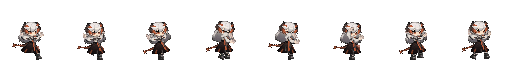
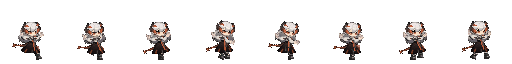
塞雷娅 S3 拳击改冲拳：前手直线打出、后手收腰、胸口前倾（用户 10-24）

diff --git a/tools/op_1x/native_extra.py b/tools/op_1x/native_extra.py
@@ -37,26 +37,21 @@ def hoshiguma():
     return ["op_hoshiguma_s1_guard_move"]
 
 
-# 塞雷娅 S3 空手拳击（10-24 用户「技能期间改成跑动拳击」→「看不太出来双手，能不能手往前伸」）：原生 Skill_Loop t=0 的空手站姿上
-# 逐帧转双臂（左臂在前；右臂在身后，转约 -140° 才到身前）。手臂大半被白毛领挡住，出拳几帧把双臂提到毛领上层画（top），
-# 不拉长也不放大（10-24 用户：放大显得奇怪；拉长 / 放大两列保留为 1.0 方便以后试）。
+# 塞雷娅 S3 空手冲拳（10-24 用户「技能期间改成跑动拳击」…「拳击就改成冲拳」）：原生 Skill_Loop t=0 的空手站姿上逐帧转手臂。
+# 前手（左臂，面朝右时在前）直线打出、后手（右臂）收到腰侧，胸口顺势前倾；手臂大半被白毛领挡住，打出的几帧把前臂提到毛领上层画（top）。
+# 不拉长、不放大（用户：放大显得奇怪）；蓄力只收到腰前，不抬过胸（用户：举过头奇怪）。
 # 帧数 / 出手帧与普攻条相同（8 帧，第 4 帧出手），时序由 json 抄普攻的 attack_timing。
-# 每帧：(左上臂, 左前臂, 右上臂, 胸, 手臂拉长, 拳头放大, 提到上层) ；角度为转角增量（度）
-PUNCH = [(0, 0, 0, 0, 1.0, 1.0, False), (8, 20, 10, 3, 1.0, 1.0, False), (12, 30, 18, 4, 1.0, 1.0, False),   # 蓄力：收到胸前（10-24 用户：原来举过头、手盖住脸）
-         (-35, -5, -140, -10, 1.0, 1.0, True), (-33, -5, -135, -9, 1.0, 1.0, True), (-15, 10, -70, -4, 1.0, 1.0, True),
-         (-5, 10, -20, 0, 1.0, 1.0, False), (0, 5, 0, 0, 1.0, 1.0, False)]
+# 每帧：(前手上臂, 前手前臂, 后手上臂, 胸, 前手提到上层) ；角度为转角增量（度）
+PUNCH = [(0, 0, 0, 0, False), (10, 35, 15, 4, False), (-8, 20, 25, 0, True),
+         (-38, -2, 30, -14, True), (-36, -2, 30, -12, True), (-15, 15, 20, -5, True),
+         (-5, 10, 8, 0, False), (0, 5, 0, 0, False)]
 SARIA_HIDE = ["F_Shield", "F_Weapon", "F_Pinhead"]   # 盾 / 武器已放下
-SARIA_ARMS = ["F_R_Arm", "F_R_Shoulder", "F_R_Hand_C", "F_R_Hand_B", "F_R_Hand",
-              "F_L_Arm", "F_L_Shoulder", "F_L_Wrap", "F_L_Ring", "F_L_Hand_C", "F_L_Hand_B", "F_L_Hand", "F_L_Finger", "F_L_Finger_2"]
+SARIA_FRONT_ARM = ["F_L_Arm", "F_L_Shoulder", "F_L_Wrap", "F_L_Ring", "F_L_Hand_C", "F_L_Hand_B", "F_L_Hand", "F_L_Finger", "F_L_Finger_2"]
 
 
 def punch_poses():
-    out = []
-    for la, lf, ra, ch, k, h, top in PUNCH:
-        sc = {} if k == 1.0 else {"F_L_Arm": [k, 1], "F_L_Shoulder": [k, 1], "F_L_Hand": [h], "F_R_Arm": [k, 1], "F_R_Shoulder": [k, 1], "F_R_Hand": [h]}
-        out.append({"anim": "Skill_Loop", "t": 0, "rot": {"F_L_Arm": la, "F_L_Shoulder": lf, "F_R_Arm": ra, "F_Chest": ch},
-                    "scale": sc, "top": SARIA_ARMS if top else [], "hide": SARIA_HIDE})
-    return out
+    return [{"anim": "Skill_Loop", "t": 0, "rot": {"F_L_Arm": la, "F_L_Shoulder": lf, "F_R_Arm": ra, "F_Chest": ch},
+             "top": SARIA_FRONT_ARM if top else [], "hide": SARIA_HIDE} for la, lf, ra, ch, top in PUNCH]
 
 
 def render_poses(op, base_cfg, name, poses, mode=None):

diff --git a/docs/140_op_anim_audit.md b/docs/140_op_anim_audit.md
@@ -121,5 +121,5 @@ python -X utf8 tools/op_1x/native_extra.py --only hoshiguma,saria               
 - **新帧条**：`op_saria_skill_s3_attack`、`op_saria_move_skill_s3_attack`。json 里时序抄普攻的 `attack_timing`，序列加 `"attack": "skill_s3_attack"`。
 - **代码**：`character._move_swap` 允许技能循环里的普攻变体（`sq_atk`）在移动中换跑动版；`_sq_atk_yield` 在变体有跑动版时不让位。
 - **结果**：录像（`build/anim_move/v2/saria_2.gif`，技能期间照常普攻、走停来回）里循环段的出拳 205 帧，其中移动中 112 帧换成跑动拳击；不出拳时站着播循环、移动播空手跑。
-- **第二版（用户「看不太出来双手，能不能手往前伸」→「拳头好像太大了」→「都不要放大」）**：改成双拳前推。后臂转约 -140° 到身前；出拳几帧把双臂提到白毛领上层画，不拉长也不放大（曾试过手臂 ×1.3、拳头 ×1.4 / ×1.1，用户嫌奇怪）。蓄力两帧只收到胸前、不画在毛领上层（用户「第一帧双手举过头有点奇怪」：原来蓄力抬得太高、手盖住脸）。实机里技能晶柱特效较密，站在队长身前的博士也会挡一部分。
+- **定稿：冲拳**（用户依次反馈「看不太出来双手，能不能手往前伸」→「拳头好像太大了」→「都不要放大」→「第一帧双手举过头有点奇怪」→「拳击就改成冲拳」）：前手（左臂）直线打出，后手收到腰侧，胸口前倾 14°；打出的几帧把前臂画在白毛领上层，1 倍下能看出拳头。不拉长不放大，蓄力只收到腰前。中途试过双拳前推、手臂 ×1.3 / 拳头 ×1.4 和 ×1.1，都被否了。实机里技能晶柱特效较密，站在队长身前的博士也会挡一部分。
 
